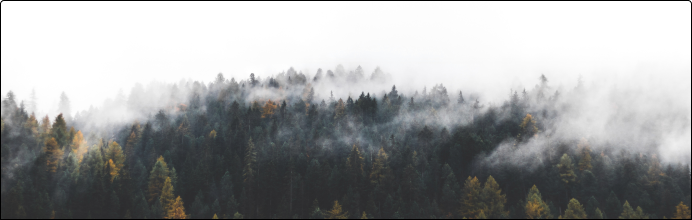
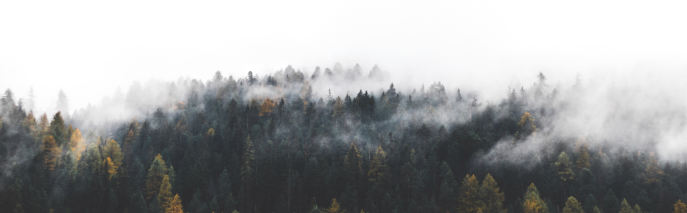
final

diff --git a/src/Components/Card/Card.jsx b/src/Components/Card/Card.jsx
@@ -4,7 +4,7 @@ const Card = () => {
   return (
     <div className=" w-[320px]   lg:w-[692px] border border-inherit rounded-[4px]">
       <img
-        className=" w-[320px] h-[120px] lg:w-[692px] lg:h-[220px] object-cover"
+        className=" w-[318px] h-[115px] lg:w-[692px] lg:h-[220px] object-cover"
         src="bg1.png"
         alt=""
       />
